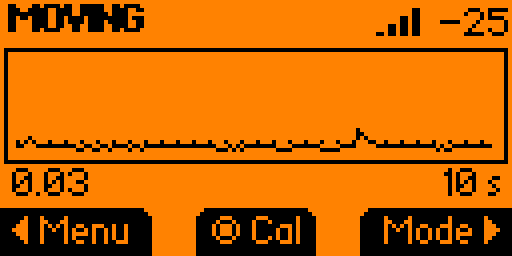
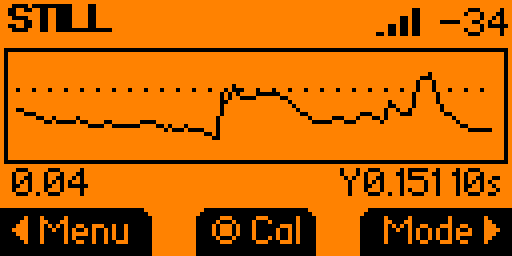
docs: refresh project page with final device gallery and direct downloads

diff --git a/README.md b/README.md
@@ -1,61 +1,75 @@
-# CSI Radar Ultimate 2.0
+# CSI Radar Ultimate
 
-![CSI Radar](docs/banner.svg)
+**Wi-Fi CSI motion monitoring for Flipper Zero.**  
+Built for E11-patched Momentum · API 87.1 · Official ESP32-S2 Wi-Fi Devboard
 
-Wi-Fi CSI motion monitoring for **Flipper Zero E11 / API 87.1** and the
-**official ESP32-S2 Wi-Fi Devboard**. Final feature version of the three-stage
-Core → Pro → Ultimate plan. MIT licensed. SauronLAB / Sehmus.
+[**Download v2.0.0**](https://github.com/sehmusadsoy-ui/flipper-csi/releases/tag/v2.0.0) · [Türkçe rehber](docs/INSTALL_TR.md) · [English guide](docs/INSTALL_EN.md) · [Roadmap](ROADMAP.md)
+
+Monitor changes in Wi-Fi channel state information on your Flipper: a live motion
+score, carrier waterfall and session history, with manual calibration and optional
+vibration alerts. Ultimate is the final feature milestone of the Core → Pro →
+Ultimate plan.
+
+## On the device
+
+Actual owner-provided v2.0 device captures. Click an image to open it at full size.
+
+| Ready / manual calibration | Live motion score |
+| :---: | :---: |
+| ![Ready screen](https://raw.githubusercontent.com/sehmusadsoy-ui/flipper-csi/main/docs/screenshots/owner-ready.png) | ![Live score graph](https://raw.githubusercontent.com/sehmusadsoy-ui/flipper-csi/main/docs/screenshots/owner-graph.png) |
+| **Carrier waterfall** | **Connection diagnostics** |
+| ![Carrier waterfall](https://raw.githubusercontent.com/sehmusadsoy-ui/flipper-csi/main/docs/screenshots/owner-waterfall.png) | ![Connection diagnostics](https://raw.githubusercontent.com/sehmusadsoy-ui/flipper-csi/main/docs/screenshots/owner-connection.png) |
+| **Session summary** | **Event history** |
+| ![Session summary](https://raw.githubusercontent.com/sehmusadsoy-ui/flipper-csi/main/docs/screenshots/owner-session.png) | ![Event history](https://raw.githubusercontent.com/sehmusadsoy-ui/flipper-csi/main/docs/screenshots/owner-history.png) |
 
 ## Features
 
-- Motion/still states, framed 10-second score graph and adjustable threshold.
-- Manual start: place the device, then press OK to calibrate.
-- Real 47-carrier waterfall, event history and aligned session/diagnostic tables.
-- Classic or optional robust filtering; manual or noise-based automatic threshold.
-- Masked Wi-Fi setup, profiles, persistent mute/language/settings.
-- Queued SD CSV recording, on-device session selection and A/B summaries.
-- Explicitly armed alarm with grace/hold/release/repeat and silent monitoring.
-- Offline HTML reports, raw-capture waterfall and filter comparison tools.
-- Screen backlight stays on while the app is open; normal timeout resumes on exit.
+| Area | Included in 2.0 |
+| --- | --- |
+| Live monitoring | Motion/still states, framed 10-second score graph, adjustable threshold and 47-carrier waterfall |
+| Calibration & filtering | Explicit manual start, Classic/Robust filters, manual or noise-based automatic threshold |
+| Everyday use | Wi-Fi setup with masked password, profiles, saved mute/language/settings and backlight held on while open |
+| Alerts | Vibration/LED, mute and explicitly armed alarm with grace/hold/release/repeat settings |
+| Recording | Queued SD CSV sessions, session selection, A/B summaries and event history |
+| PC tools | Offline HTML reports, raw-capture waterfall and filter comparison |
 
-## Quick installation
+## Get started
 
-1. Download the full `flipper-csi-v2.0.0.zip` package and verify `SHA256SUMS.txt`.
-2. Keep your existing E11 system firmware; this FAP targets API 87.1.
-3. First install or upgrade from 1.5: flash all three `ready/` ESP binaries at the addresses in the guide.
-4. Close CSI Radar; copy `ready/csi_radar.fap` to `/ext/apps/GPIO/csi_radar.fap` with qFlipper.
-5. Open CSI Radar Ultimate, place it still, then press OK to calibrate. Existing protocol-3 2.0 ESP users can update the FAP alone; the rebuilt ESP only corrects its startup version text.
+1. Download the [full v2.0.0 package](https://github.com/sehmusadsoy-ui/flipper-csi/releases/download/v2.0.0/flipper-csi-v2.0.0.zip) and [SHA256 checksums](https://github.com/sehmusadsoy-ui/flipper-csi/releases/download/v2.0.0/SHA256SUMS.txt).
+2. Keep your E11 system firmware. The supplied FAP targets **API 87.1**.
+3. First install or upgrade from 1.0/1.5: flash the three ESP binaries from `ready/` using the [installation guide](docs/INSTALL_EN.md).
+4. Copy [`csi_radar.fap`](https://github.com/sehmusadsoy-ui/flipper-csi/releases/download/v2.0.0/csi_radar.fap) to `/ext/apps/GPIO/csi_radar.fap` using qFlipper while the application is closed.
+5. Open CSI Radar, place the device still, then press **OK** to calibrate.
 
-**[English installation and usage](docs/INSTALL_EN.md)** ·
-**[Türkçe kurulum ve kullanım](docs/INSTALL_TR.md)** ·
-[Test evidence](docs/BUILD_EVIDENCE.md) · [Device checklist](docs/DEVICE_TESTS_TR.md) ·
-[Protocol 3](PROTOCOL.md) · [Changelog](CHANGELOG.md)
+Already running protocol-3 2.0? The FAP can be updated alone. The final ESP rebuild
+only corrects startup version text; reflashing an existing working 2.0 ESP is optional.
 
-## Compatibility and evidence
+**Türkçe:** [Kurulum, Wi-Fi ayarı, menüler ve kullanım](docs/INSTALL_TR.md).
 
-The owner reports motion/still, vibration, Classic/Robust and automatic/manual
-operation, live waterfall and general app operation on the E11 setup, and accepted
-the final UI. Version 1.5's checklist was reported all-pass without raw numeric results.
-Local builds and host tests are recorded separately from physical reports.
+## Compatibility & validation
 
-Three-placement accuracy, labeled real capture comparison, 8-hour soak, SD fault
-behavior and exhaustive final-2.0 alarm/storage validation have not been independently
-verified here. No detection-accuracy percentage is claimed. Other firmware/APIs
-require their own build and tests. Do not infer human identity, distance, direction,
-count, static presence, breathing or pulse from the score.
+The supplied build is scoped to **E11-patched Momentum / API 87.1** and the
+**official ESP32-S2 Wi-Fi Devboard**. Other firmware versions or boards need their
+own build and validation.
 
-## Owner device captures
+Local FAP/ESP builds, C regressions, eight Python tests and ASan/UBSan are recorded
+in [build evidence](docs/BUILD_EVIDENCE.md). The owner reports working motion/still
+transitions, vibration, waterfall and manual/automatic/Classic/Robust operation.
 
-These are genuine owner-provided screenshots from 2.0 validation. They predate
-some final typography/graph-scale changes; they are not generated previews or
-proof of long-duration RF accuracy.
+Detection depends on placement, traffic and the radio environment. Three-placement
+accuracy, an eight-hour soak and exhaustive alarm/SD-fault/migration checks remain
+open in the [device checklist](docs/DEVICE_TESTS_TR.md). No accuracy percentage is
+claimed. The score does not measure identity, distance, direction, people count,
+static presence or vital signs.
 
-![Owner graph capture](docs/screenshots/owner-graph.png)
-![Owner waterfall capture](docs/screenshots/owner-waterfall.png)
-![Owner event history capture](docs/screenshots/owner-history.png)
+## Documentation & development
 
-## Development
+- [English installation and usage](docs/INSTALL_EN.md) · [Türkçe kurulum ve kullanım](docs/INSTALL_TR.md)
+- [Protocol 3](PROTOCOL.md) · [Changelog](CHANGELOG.md) · [Roadmap](ROADMAP.md)
+- [Build evidence](docs/BUILD_EVIDENCE.md) · [Owner test report](docs/OWNER_TEST_REPORT.md) · [Device checklist](docs/DEVICE_TESTS_TR.md)
 
-Run `sh tools/run_tests.sh`; use `SANITIZE=1 ASAN_OPTIONS=detect_leaks=0` for the
-recorded sanitizer configuration. FAP: ufbt 0.2.6 + Momentum mntm-012 SDK.
-ESP: ESP-IDF v5.5, target esp32s2. See the build evidence and manual publication guide.
+Run `sh tools/run_tests.sh`. Recorded sanitizer configuration:
+`SANITIZE=1 ASAN_OPTIONS=detect_leaks=0 sh tools/run_tests.sh`.
+FAP: ufbt 0.2.6 + Momentum mntm-012 SDK. ESP: ESP-IDF v5.5, target `esp32s2`.
+
+[MIT License](LICENSE) · SauronLAB / Sehmus
